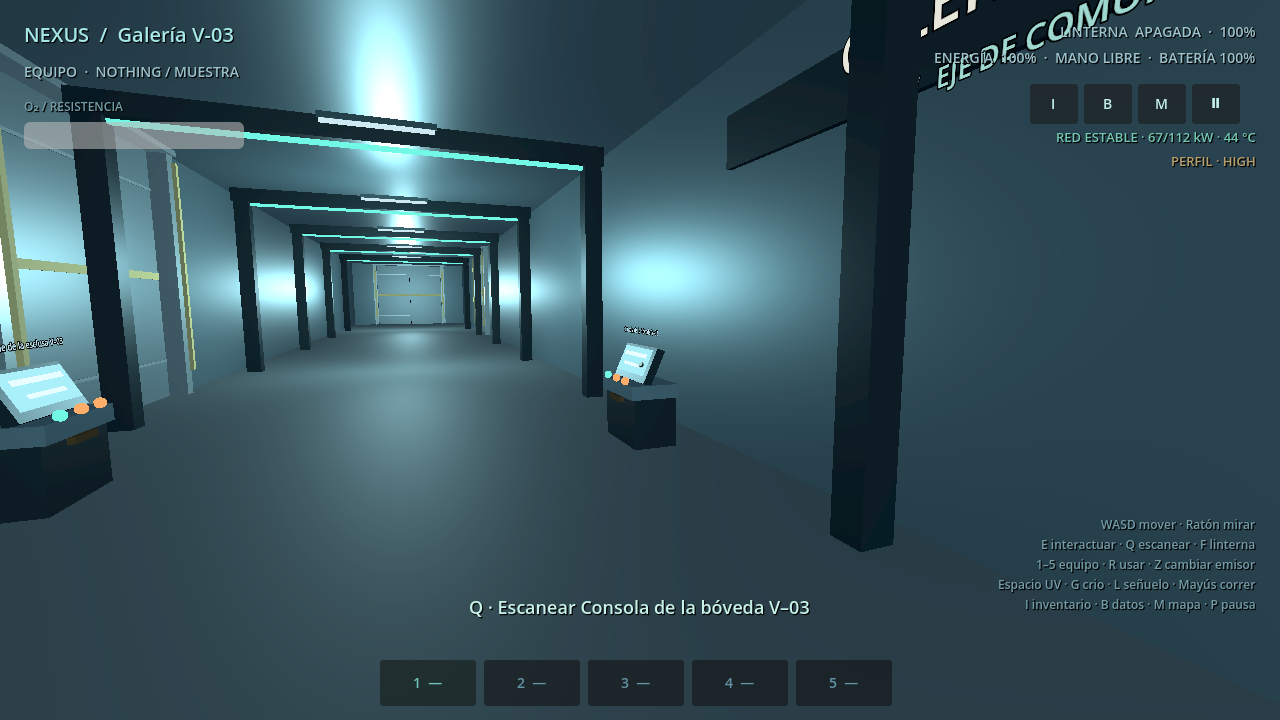
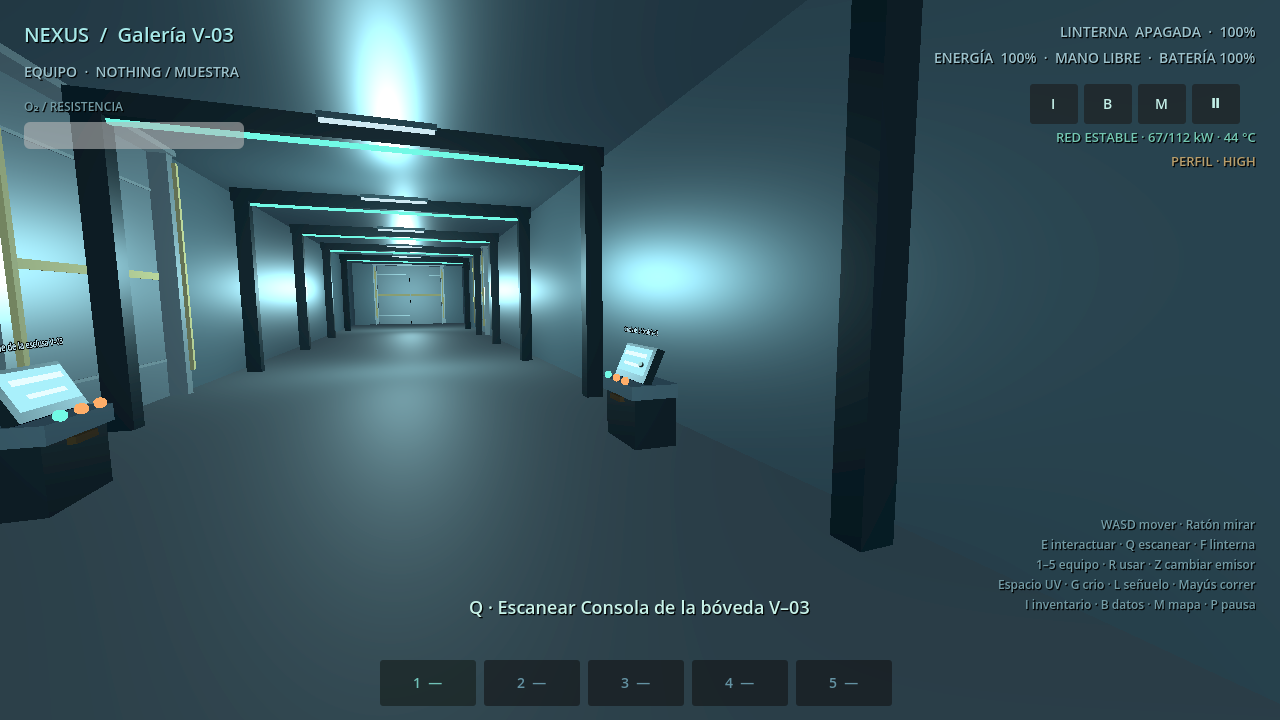
Fase 26: densidad de C-04 y A-01, novena vista de captura y rotulo de galeria

Changed region(s): [[0.5625, 0.0611, 0.6875, 0.2444], [0.7188, 0.0, 0.9062, 0.1222]]

diff --git a/docs/migration/PHASE_26_ROOM_DENSITY.md b/docs/migration/PHASE_26_ROOM_DENSITY.md
@@ -1,0 +1,70 @@
+# Fase 26 · Densidad de C–04 y A–01
+
+Las dos salas más vacías de la planta nativa (la de contención, 72 × 84 m, y el
+archivo biométrico, 36 × 24 m) tenían cuatro piezas contadas. Esta fase las
+equipa sin mover ni una colisión de juego: todo el mobiliario nuevo es
+`MeshInstance3D` decorativo, dentro de `ZoneDressing.ROOMS` y con el techo
+respetado (lo comprueba `validate_dressing`).
+
+## C–04 · contención
+
+- **Franja de peligro** en el suelo: 24 testas ámbar emisivas a 14,6 m del
+  centro del anillo.
+- **Pasarela perimetral** (`C04Catwalk`, radio 17,2, cota 3,1): 24 tramos de
+  chapa con borde luminoso, dos barandillas por tramo y ocho columnas de apoyo.
+- **Balizas de sector** en cuatro diagonales, añadidas a `indicators` para que
+  parpadeen con `animate(t)` (escala `0.45 + 0.55·|sin(1.9t + 0.8i)|`).
+- **Pórtico de mantenimiento** (`C04Gantry`): dos carriles a cota 8, viga de 41 m,
+  carro, cable y gancho de bronce sobre la cuba.
+- **Banco de instrumentación** en el muro oeste: cuatro armarios, banda emisiva y
+  tres `WallScreen` de fósforo con el estado de la malla («CONTENCIÓN C–04 ·
+  MALLA ACTIVA · anillo n · tensión nominal»).
+- **Iluminación**: la fila central de `_ceiling_lights` (la sala es la más ancha
+  de la planta, así que sólo ponía una hilera a z = 42) dejaba el anillo a
+  oscuras; se añaden dos hileras a z = 14 y z = 62.
+- Bidones y cajas arrimados a los muros para romper el vacío del suelo.
+
+## A–01 · archivo biométrico / muelle de carga
+
+- **Estanterías de carga** (`A01Rack1/2`) contra el muro oeste: tres niveles con
+  banda luminosa, tres montantes y cajas de transporte.
+- **Muelle**: plataforma con franja ámbar, topes laterales y línea de guiado.
+- **Bancada de carga** (`A01ChargeBay`) con tres alojamientos emisivos, testigo
+  ámbar y latiguillos.
+- **Carro de transporte** (`A01Cart`) con cuatro ruedas y barra de arrastre, más
+  dos bidones con anillo de bronce.
+- **Pasillo marcado** con testas ámbar cada 2 m, de la puerta al muelle.
+- **Tuberías y bandeja de cables** sobre la nave, baliza del muelle (en
+  `indicators`) y rótulo nuevo «MUELLE · A–01 / CARGA DE EQUIPO».
+
+## Rótulo de la galería
+
+El cartel «GALERÍA AXIAL · EJE DE COMUNICACIÓN» estaba en el muro este de V–03 a
+la altura de la cámara y se comía el plano en las vistas rasantes: pasa de
+6,4 × 1,2 m en (30,6 · 3,4 · −40) a 5,2 × 0,95 m en (30,6 · 3,9 · −76), junto al
+extremo de la galería.
+
+## Capturas
+
+`qa/capture_zones.tscn` incorpora la vista de A–01 (nueve zonas), se reencuadran
+C–04 y A–01 y se regeneran las nueve imágenes `reports/ingame-*.png`. Hoja de
+contacto 3 × 3: `reports/phase26-ingame.png`.
+
+## QA
+
+Sin cambios de contrato: `run_suite` 335, `validate_layouts` 65,
+`validate_dressing` 110, `validate_files` 33, `validate_vault` 53,
+`validate_bench_cycle` 51, `validate_operations` 77, `validate_transit` 154,
+`validate_experience` 139, `validate_camera` 113, `validate_session` 95,
+`validate_displays` 89, `validate_w01_ai` 66, `validate_power_grid` 45,
+`validate_zone_traversal` 255, `validate_zone_graph` 303,
+`validate_game_state` 17, `validate_resume` 8 → **2008 checks, 0 fallos**.
+
+## Pendientes
+
+1. El vídeo de las cámaras de vigilancia sigue siendo fósforo sintético; falta
+   el `VideoStreamPlayer` con el material de la web.
+2. C–04 necesita mobiliario «de escala humana» (carretillas, escaleras) para que
+   los 72 m de nave no lean como un hangar vacío.
+3. El banco de instrumentación de C–04 y los monitores de fósforo aún no están
+   enganchados a `OperationsPanel` ni a `TelemetryFeed`.

diff --git a/docs/migration/MIGRATION_PROGRESS.md b/docs/migration/MIGRATION_PROGRESS.md
@@ -92,6 +92,11 @@ Actualizado: 2026-11-24. La migración continúa en `/home/user/NEXUS-Native`; l
 - Fase 25: `FilesModule.apply_web_layout()` ancla las diez bandejas al muro oeste de D–02 (`WALL_X = 32.2`, paso 3,78, boca a +X) y `zone_d02_records.tscn` instancia las diez; `VaultModule` reparte puestos y cajones entre `EAST_X = 29.9` y `WEST_X = 24.4`; los cuatro tipos de dispositivo interactivo (bandeja, puesto de bóveda, bancada y mando) dejan de ser volumen invisible y se construyen con `BuildKit`; la platina de B–02 se mueve dentro de su sala.
 - `qa/validate_layouts.gd` (65 checks) audita la posición de los nodos de las diez zonas contra `ZoneDressing.ROOMS` y exige mallas en los dispositivos; `run_suite` sube a 335. QA total: **2008 checks**. Detalle en `PHASE_25_NATIVE_LAYOUTS.md`.
 
+## Fase 26 · Densidad de C–04 y A–01
+- C–04: franja de peligro, pasarela perimetral con barandilla y borde luminoso, balizas de sector animadas, pórtico de mantenimiento, banco de instrumentación con tres pantallas de fósforo y dos hileras extra de luminarias (la fila central dejaba el anillo a oscuras). `reports/ingame-c04.png` reencuadrado.
+- A–01: dos estanterías de carga, muelle con franja y topes, bancada de carga de tres alojamientos, carro, bidones, pasillo marcado, tuberías, baliza y rótulo «MUELLE». Vista propia en `qa/capture_zones.tscn` (nueve zonas).
+- «GALERÍA AXIAL» reducido y desplazado al extremo de V–03 para que no se coma los planos rasantes. Hoja `reports/phase26-ingame.png`. QA total sin cambios: **2008 checks**. Detalle en `PHASE_26_ROOM_DENSITY.md`.
+
 ## Siguiente bloque de trabajo
 0. Ver `docs/migration/PARITY_WEB_NATIVE.md` para la comparación módulo a módulo con la web v15.1.
 1. Verificar y ajustar el HUD/touch y el mapa en una build visible de Android.
